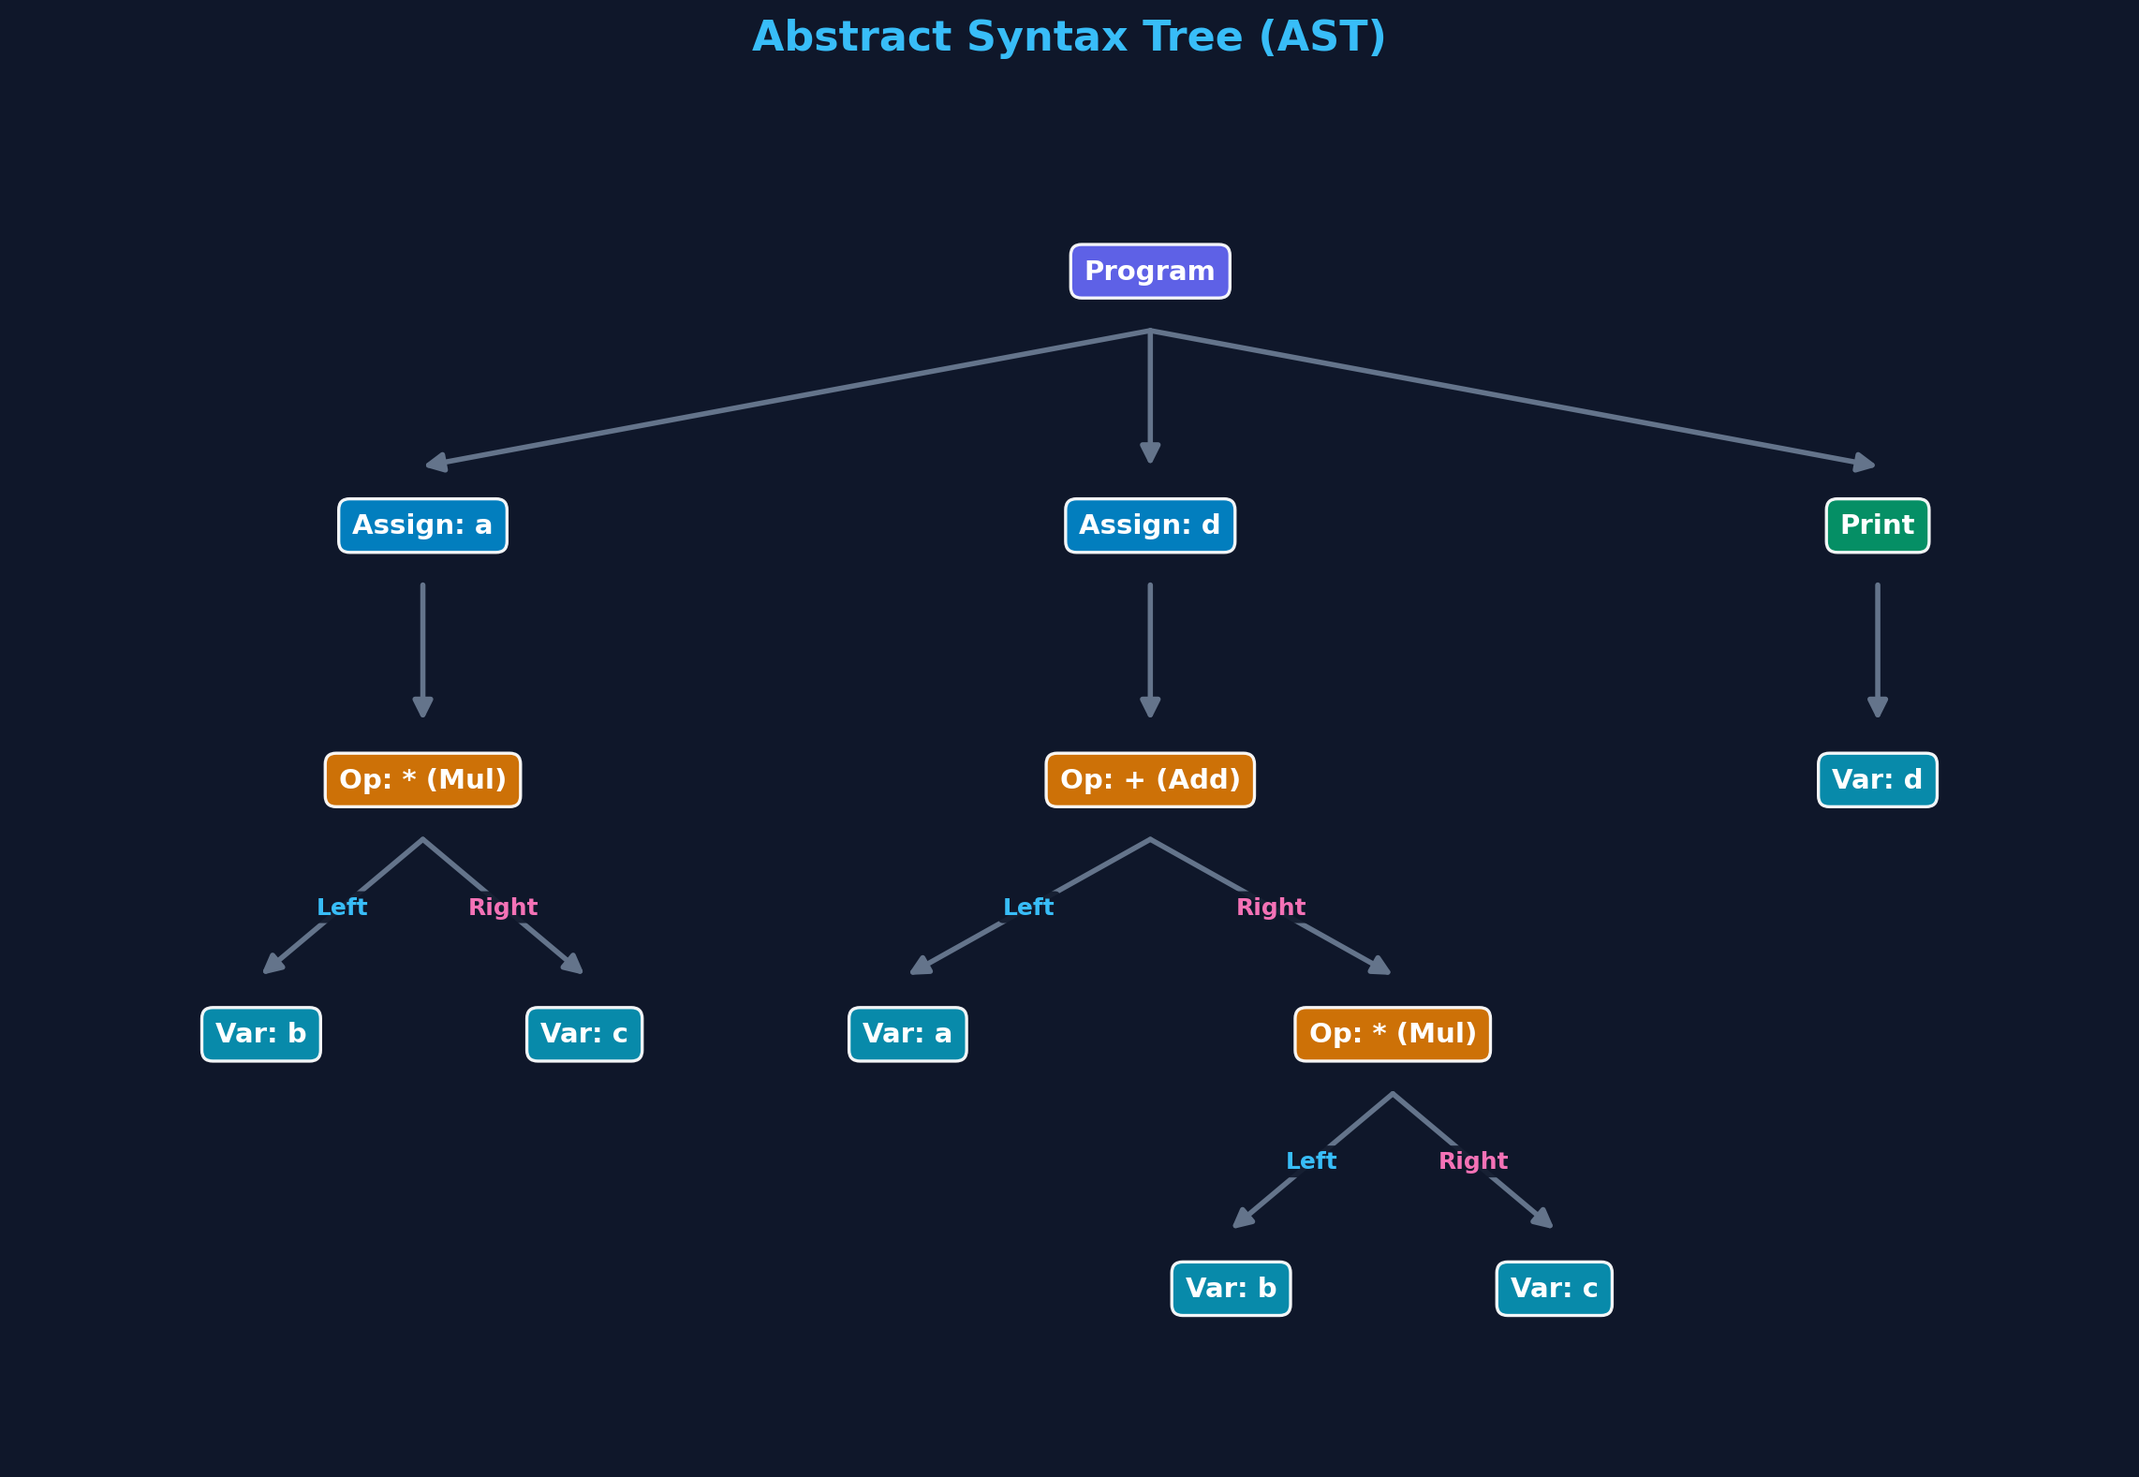
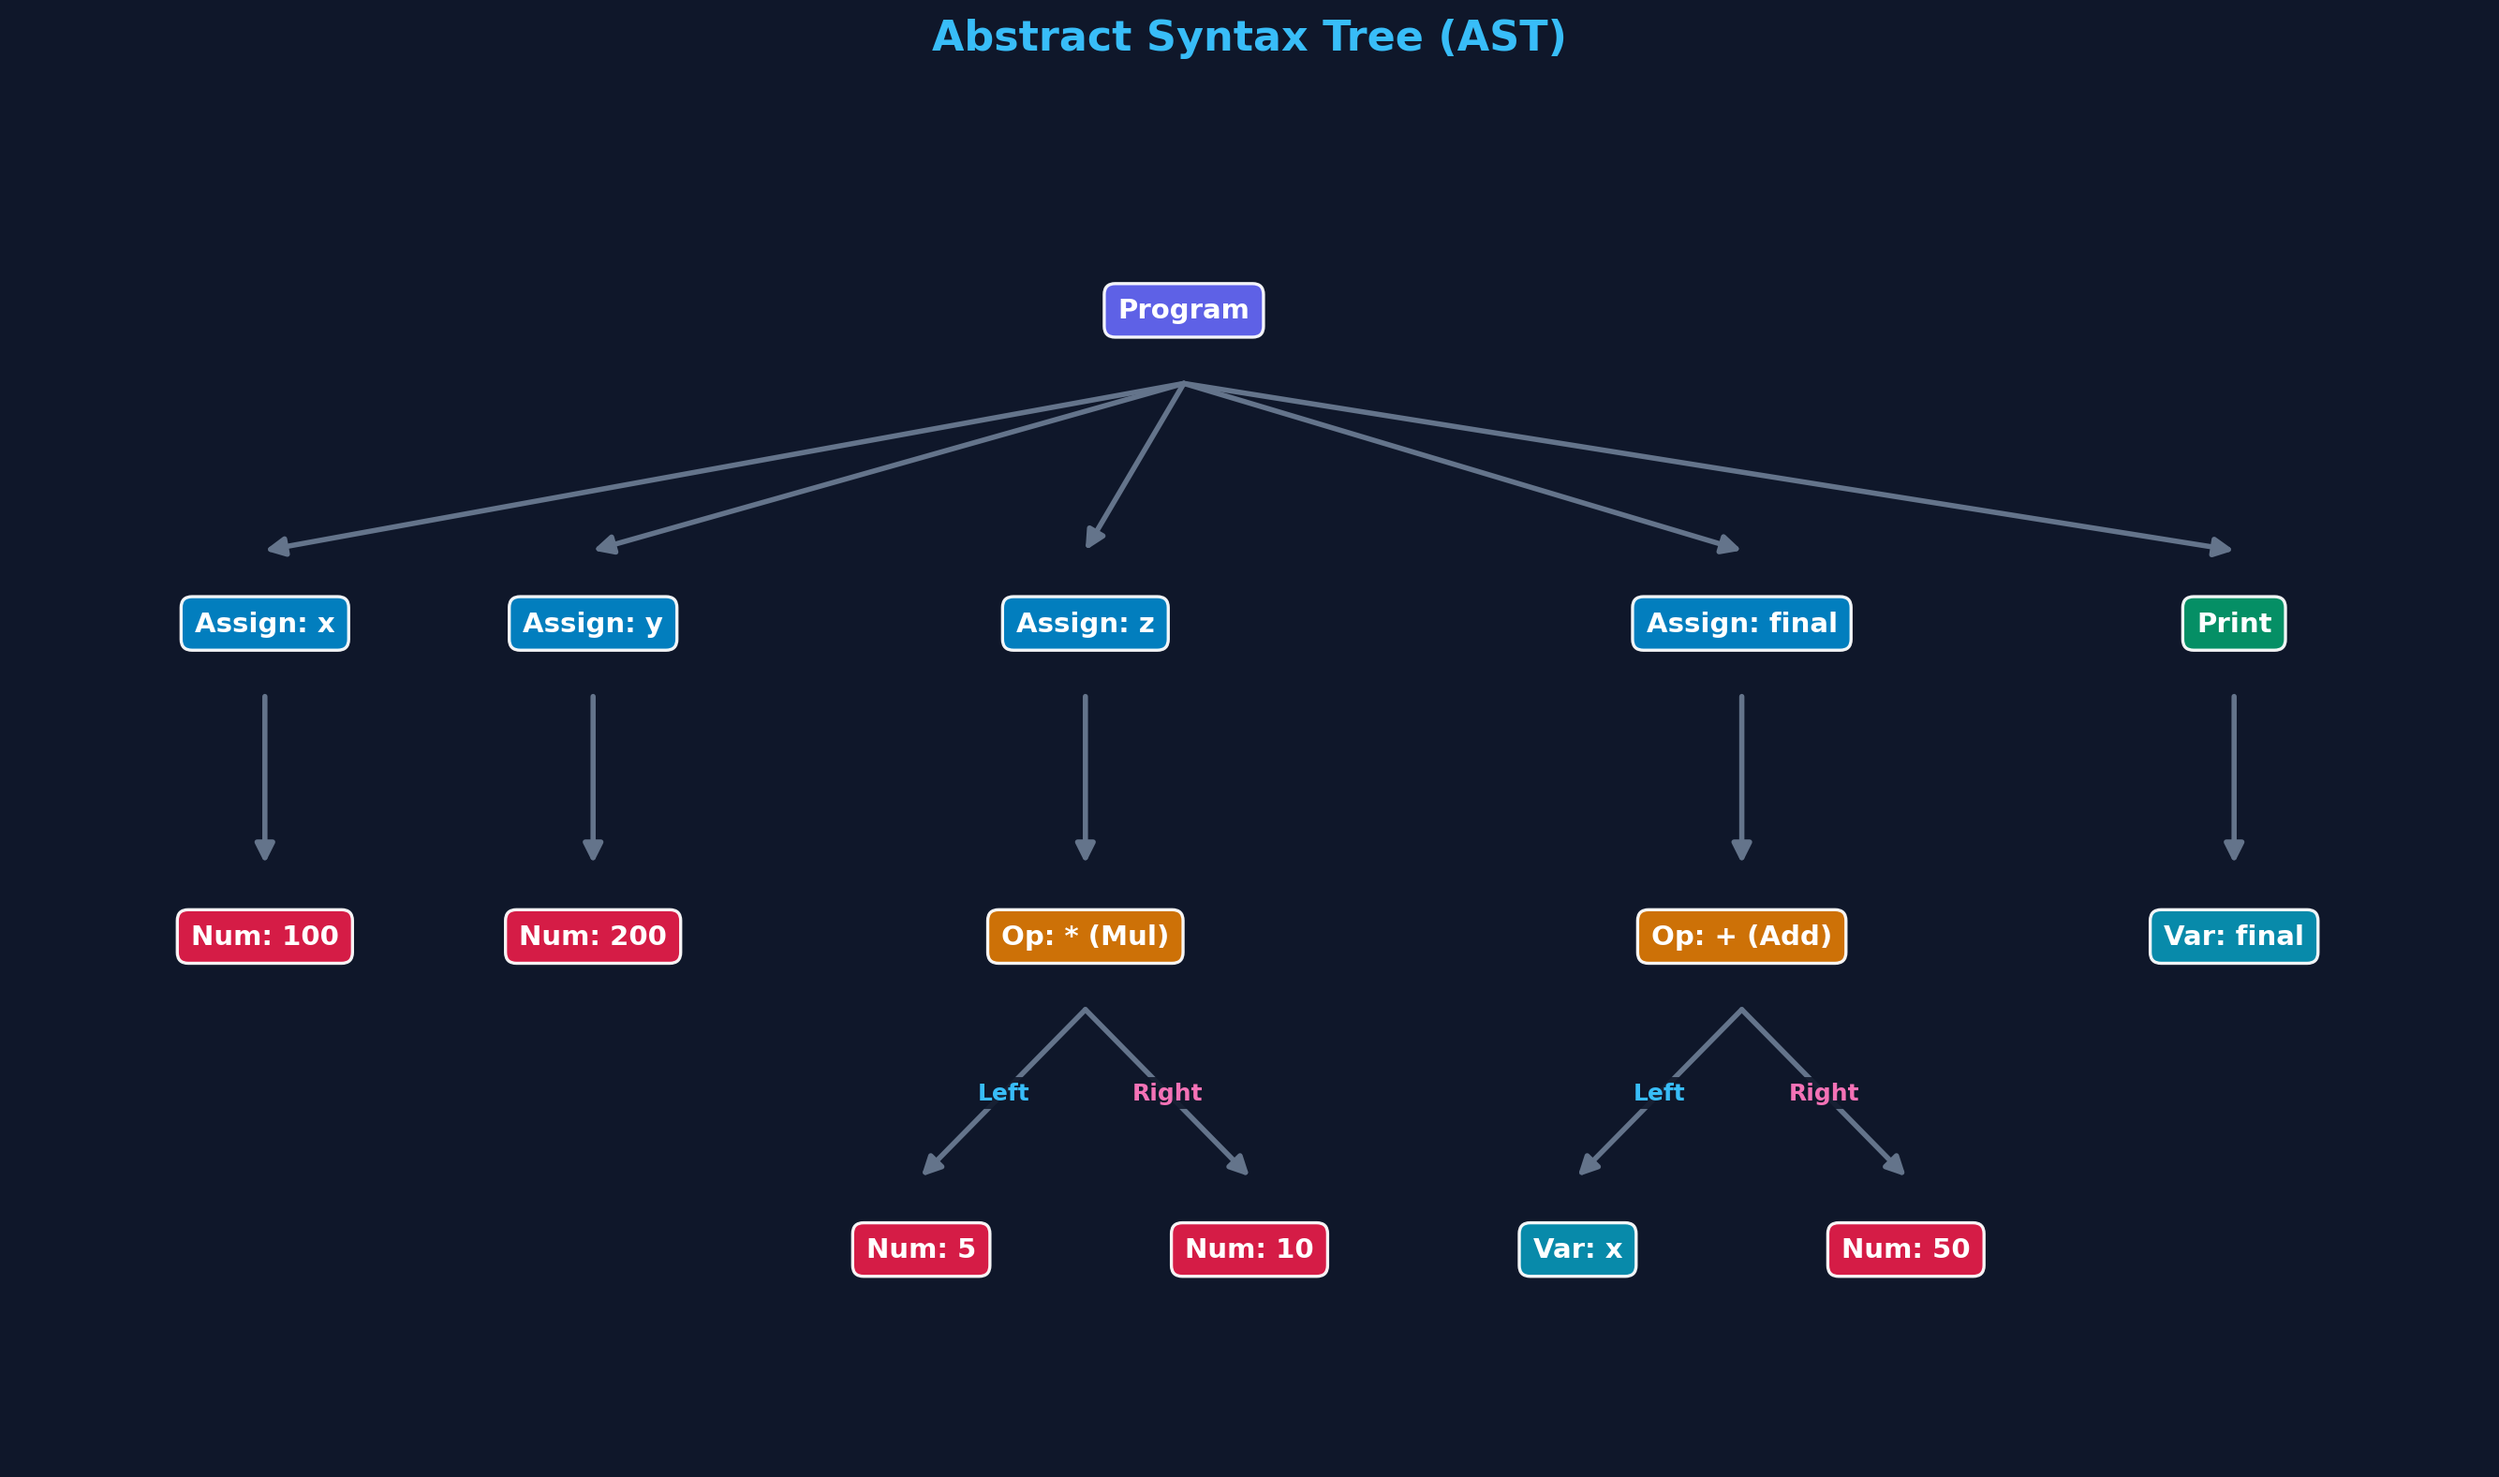
feat(optimizer): implement constant folding and dead code elimination passes
- Add OptimizerPass base class interface in src/optimizer.h

- Implement ConstantFoldingPass with propagation and compile-time evaluation

- Implement DeadCodeEliminationPass using backward liveness analysis and erase-remove idiom

- Expose mutable getInstructions() in TACBuilder

- Integrate optimization pipeline into src/main.cpp driver

- Update parser to support flexible print statements

- Add test suites for constant folding (test6) and dead code elimination (test7)

diff --git a/src/optimizer.cpp b/src/optimizer.cpp
@@ -1,0 +1,145 @@
+/**
+ * ==============================================================================
+ * File: src/optimizer.cpp
+ * Purpose: Implementation of optimizer passes and utility functions.
+ *
+ * Role in Compiler:
+ *  - Implements helper functions such as isNumber.
+ *  - Implements ConstantFoldingPass for TAC instruction streams.
+ * ==============================================================================
+ */
+
+#include "optimizer.h"
+#include <cctype>
+#include <algorithm>
+
+/**
+ * Safely checks if a string represents a valid integer (handling optional negative sign).
+ */
+bool isNumber(const std::string& str) {
+    if (str.empty()) {
+        return false;
+    }
+    size_t start = 0;
+    if (str[0] == '-') {
+        if (str.length() == 1) {
+            return false;
+        }
+        start = 1;
+    }
+    for (size_t i = start; i < str.length(); ++i) {
+        if (!std::isdigit(static_cast<unsigned char>(str[i]))) {
+            return false;
+        }
+    }
+    return true;
+}
+
+void ConstantFoldingPass::optimize(std::vector<TACInstruction>& instructions) {
+    std::unordered_map<std::string, int> knownConstants;
+
+    for (auto& instr : instructions) {
+        // a. Propagation
+        auto it1 = knownConstants.find(instr.arg1);
+        if (it1 != knownConstants.end()) {
+            instr.arg1 = std::to_string(it1->second);
+        }
+
+        auto it2 = knownConstants.find(instr.arg2);
+        if (it2 != knownConstants.end()) {
+            instr.arg2 = std::to_string(it2->second);
+        }
+
+        // b. Folding
+        bool isArithmetic = (instr.op == OpCode::ADD || 
+                             instr.op == OpCode::SUB || 
+                             instr.op == OpCode::MUL || 
+                             instr.op == OpCode::DIV);
+
+        if (isArithmetic && isNumber(instr.arg1) && isNumber(instr.arg2)) {
+            int val1 = std::stoi(instr.arg1);
+            int val2 = std::stoi(instr.arg2);
+            int computedResult = 0;
+            bool divisionByZero = false;
+
+            switch (instr.op) {
+                case OpCode::ADD:
+                    computedResult = val1 + val2;
+                    break;
+                case OpCode::SUB:
+                    computedResult = val1 - val2;
+                    break;
+                case OpCode::MUL:
+                    computedResult = val1 * val2;
+                    break;
+                case OpCode::DIV:
+                    if (val2 == 0) {
+                        divisionByZero = true;
+                    } else {
+                        computedResult = val1 / val2;
+                    }
+                    break;
+                default:
+                    break;
+            }
+
+            if (!divisionByZero) {
+                instr.op = OpCode::ASSIGN;
+                instr.arg1 = std::to_string(computedResult);
+                instr.arg2 = "";
+            }
+        }
+
+        // c. Tracking & Invalidation
+        if (instr.op == OpCode::ASSIGN) {
+            if (isNumber(instr.arg1)) {
+                knownConstants[instr.result] = std::stoi(instr.arg1);
+            } else {
+                knownConstants.erase(instr.result);
+            }
+        } else if (!instr.result.empty()) {
+            // Any other instruction that defines/writes to result invalidates previous constant value
+            knownConstants.erase(instr.result);
+        }
+    }
+}
+
+void DeadCodeEliminationPass::optimize(std::vector<TACInstruction>& instructions) {
+    std::unordered_set<std::string> liveVariables;
+
+    for (int i = static_cast<int>(instructions.size()) - 1; i >= 0; --i) {
+        auto& instr = instructions[i];
+
+        if (instr.op == OpCode::PRINT) {
+            if (!instr.arg1.empty() && !isNumber(instr.arg1)) {
+                liveVariables.insert(instr.arg1);
+            }
+        } else if (instr.op == OpCode::ASSIGN ||
+                   instr.op == OpCode::ADD ||
+                   instr.op == OpCode::SUB ||
+                   instr.op == OpCode::MUL ||
+                   instr.op == OpCode::DIV) {
+            if (liveVariables.find(instr.result) != liveVariables.end()) {
+                // Variable is needed later
+                liveVariables.erase(instr.result);
+
+                if (!instr.arg1.empty() && !isNumber(instr.arg1)) {
+                    liveVariables.insert(instr.arg1);
+                }
+                if (!instr.arg2.empty() && !isNumber(instr.arg2)) {
+                    liveVariables.insert(instr.arg2);
+                }
+            } else {
+                // Variable is never used again (dead code)
+                instr.op = OpCode::NOP;
+                instr.arg1 = "";
+                instr.arg2 = "";
+                instr.result = "";
+            }
+        }
+    }
+
+    instructions.erase(std::remove_if(instructions.begin(), instructions.end(), [](const TACInstruction& instr) { return instr.op == OpCode::NOP; }), instructions.end());
+}
+
+

diff --git a/src/optimizer.h b/src/optimizer.h
@@ -1,0 +1,38 @@
+/**
+ * ==============================================================================
+ * File: src/optimizer.h
+ * Purpose: Optimization framework interfaces and pass declarations.
+ *
+ * Role in Compiler:
+ *  - Defines the OptimizerPass base class for AST/TAC transformation passes.
+ *  - Defines optimization passes such as ConstantFoldingPass.
+ * ==============================================================================
+ */
+
+#pragma once
+
+#include <vector>
+#include <string>
+#include <unordered_map>
+#include <unordered_set>
+#include <stdexcept>
+#include "tac.h"
+
+class OptimizerPass {
+public:
+    virtual ~OptimizerPass() = default;
+    virtual void optimize(std::vector<TACInstruction>& instructions) = 0;
+};
+
+class ConstantFoldingPass : public OptimizerPass {
+public:
+    void optimize(std::vector<TACInstruction>& instructions) override;
+};
+
+class DeadCodeEliminationPass : public OptimizerPass {
+public:
+    void optimize(std::vector<TACInstruction>& instructions) override;
+};
+
+bool isNumber(const std::string& str);
+

diff --git a/src/main.cpp b/src/main.cpp
@@ -20,6 +20,7 @@
 #include <cstdio>
 #include "ast.h"
 #include "tac.h"
+#include "optimizer.h"
 
 extern int yyparse();
 extern FILE* yyin;
@@ -69,6 +70,20 @@ int main(int argc, char** argv) {
             root->generateTAC(builder);
             std::cout << "=== THREE-ADDRESS CODE ===" << std::endl;
             builder.printAll();
+
+            ConstantFoldingPass folder;
+            folder.optimize(builder.getInstructions());
+            std::cout << "\n=== AFTER CONSTANT FOLDING ===\n";
+            for (const auto& instr : builder.getInstructions()) {
+                std::cout << instr.toString() << "\n";
+            }
+
+            DeadCodeEliminationPass dce;
+            dce.optimize(builder.getInstructions());
+            std::cout << "\n=== AFTER DEAD CODE ELIMINATION ===\n";
+            for (const auto& instr : builder.getInstructions()) {
+                std::cout << instr.toString() << "\n";
+            }
         }
     } else {
         std::cerr << "Parse failed!" << std::endl;

diff --git a/src/tac.h b/src/tac.h
@@ -43,4 +43,5 @@ public:
     void emit(OpCode op, std::string arg1, std::string arg2, std::string result);
     void printAll() const;
     const std::vector<TACInstruction>& getInstructions() const { return instructions; }
+    std::vector<TACInstruction>& getInstructions() { return instructions; }
 };
